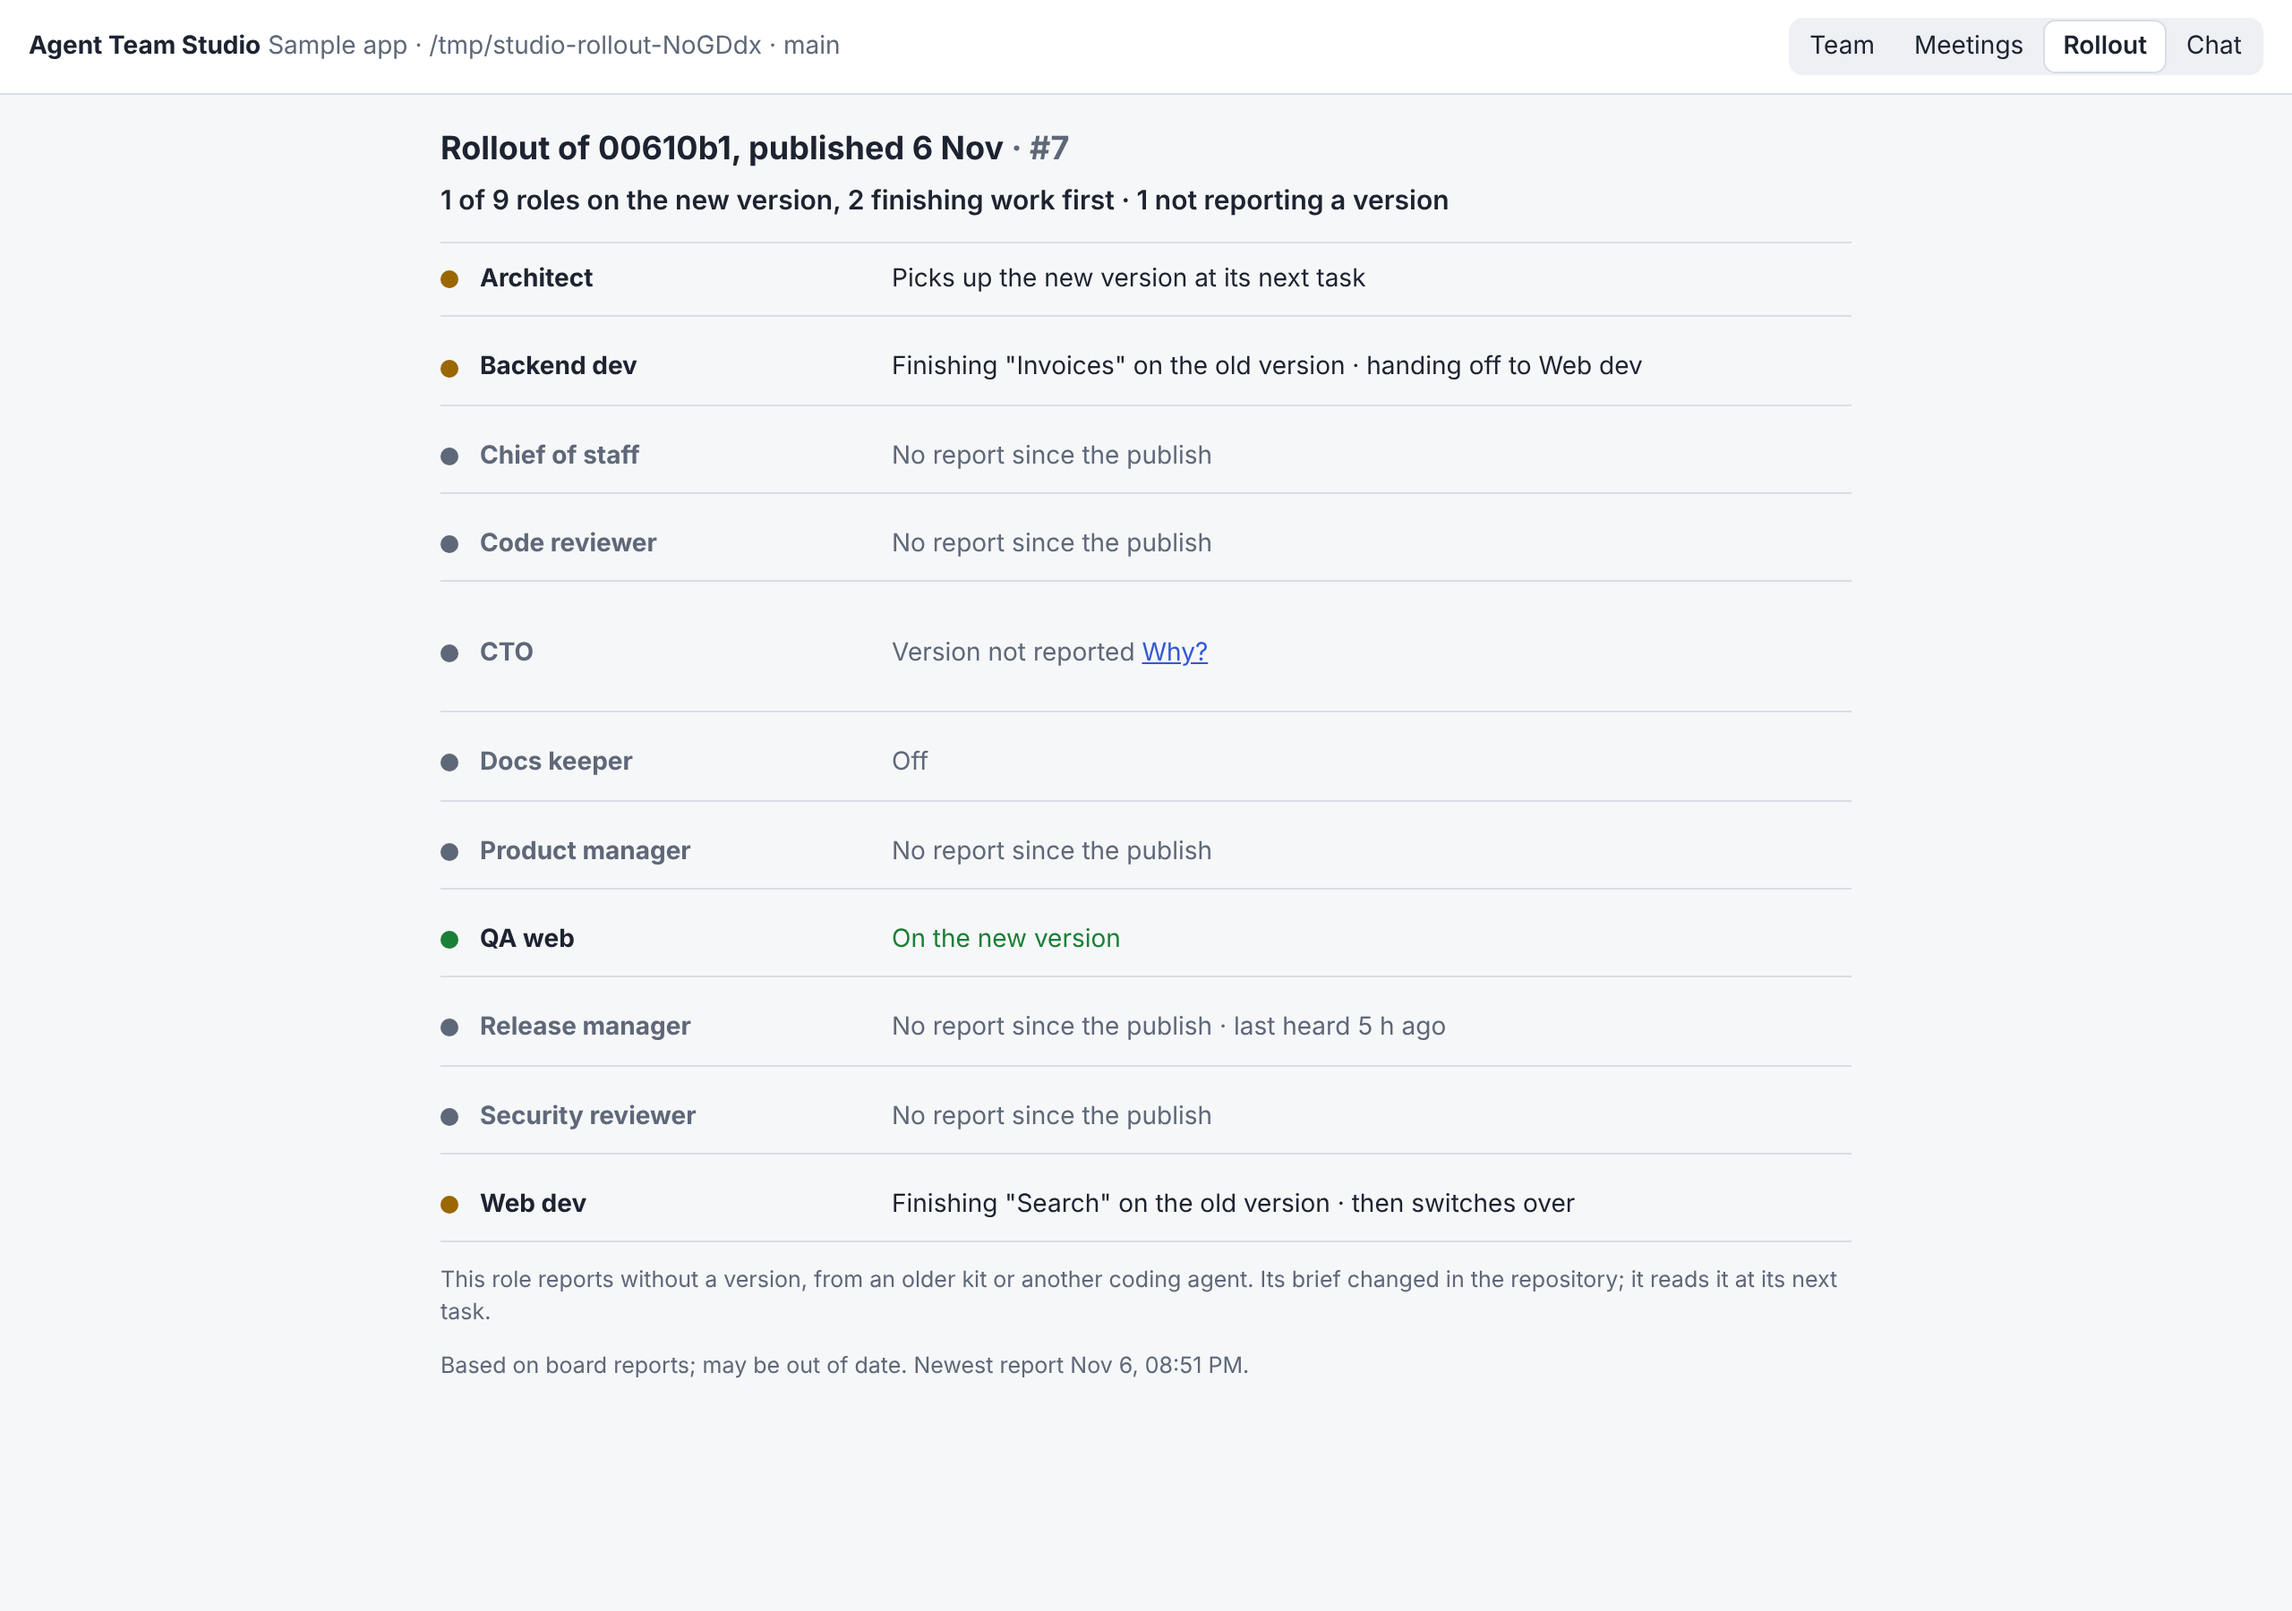
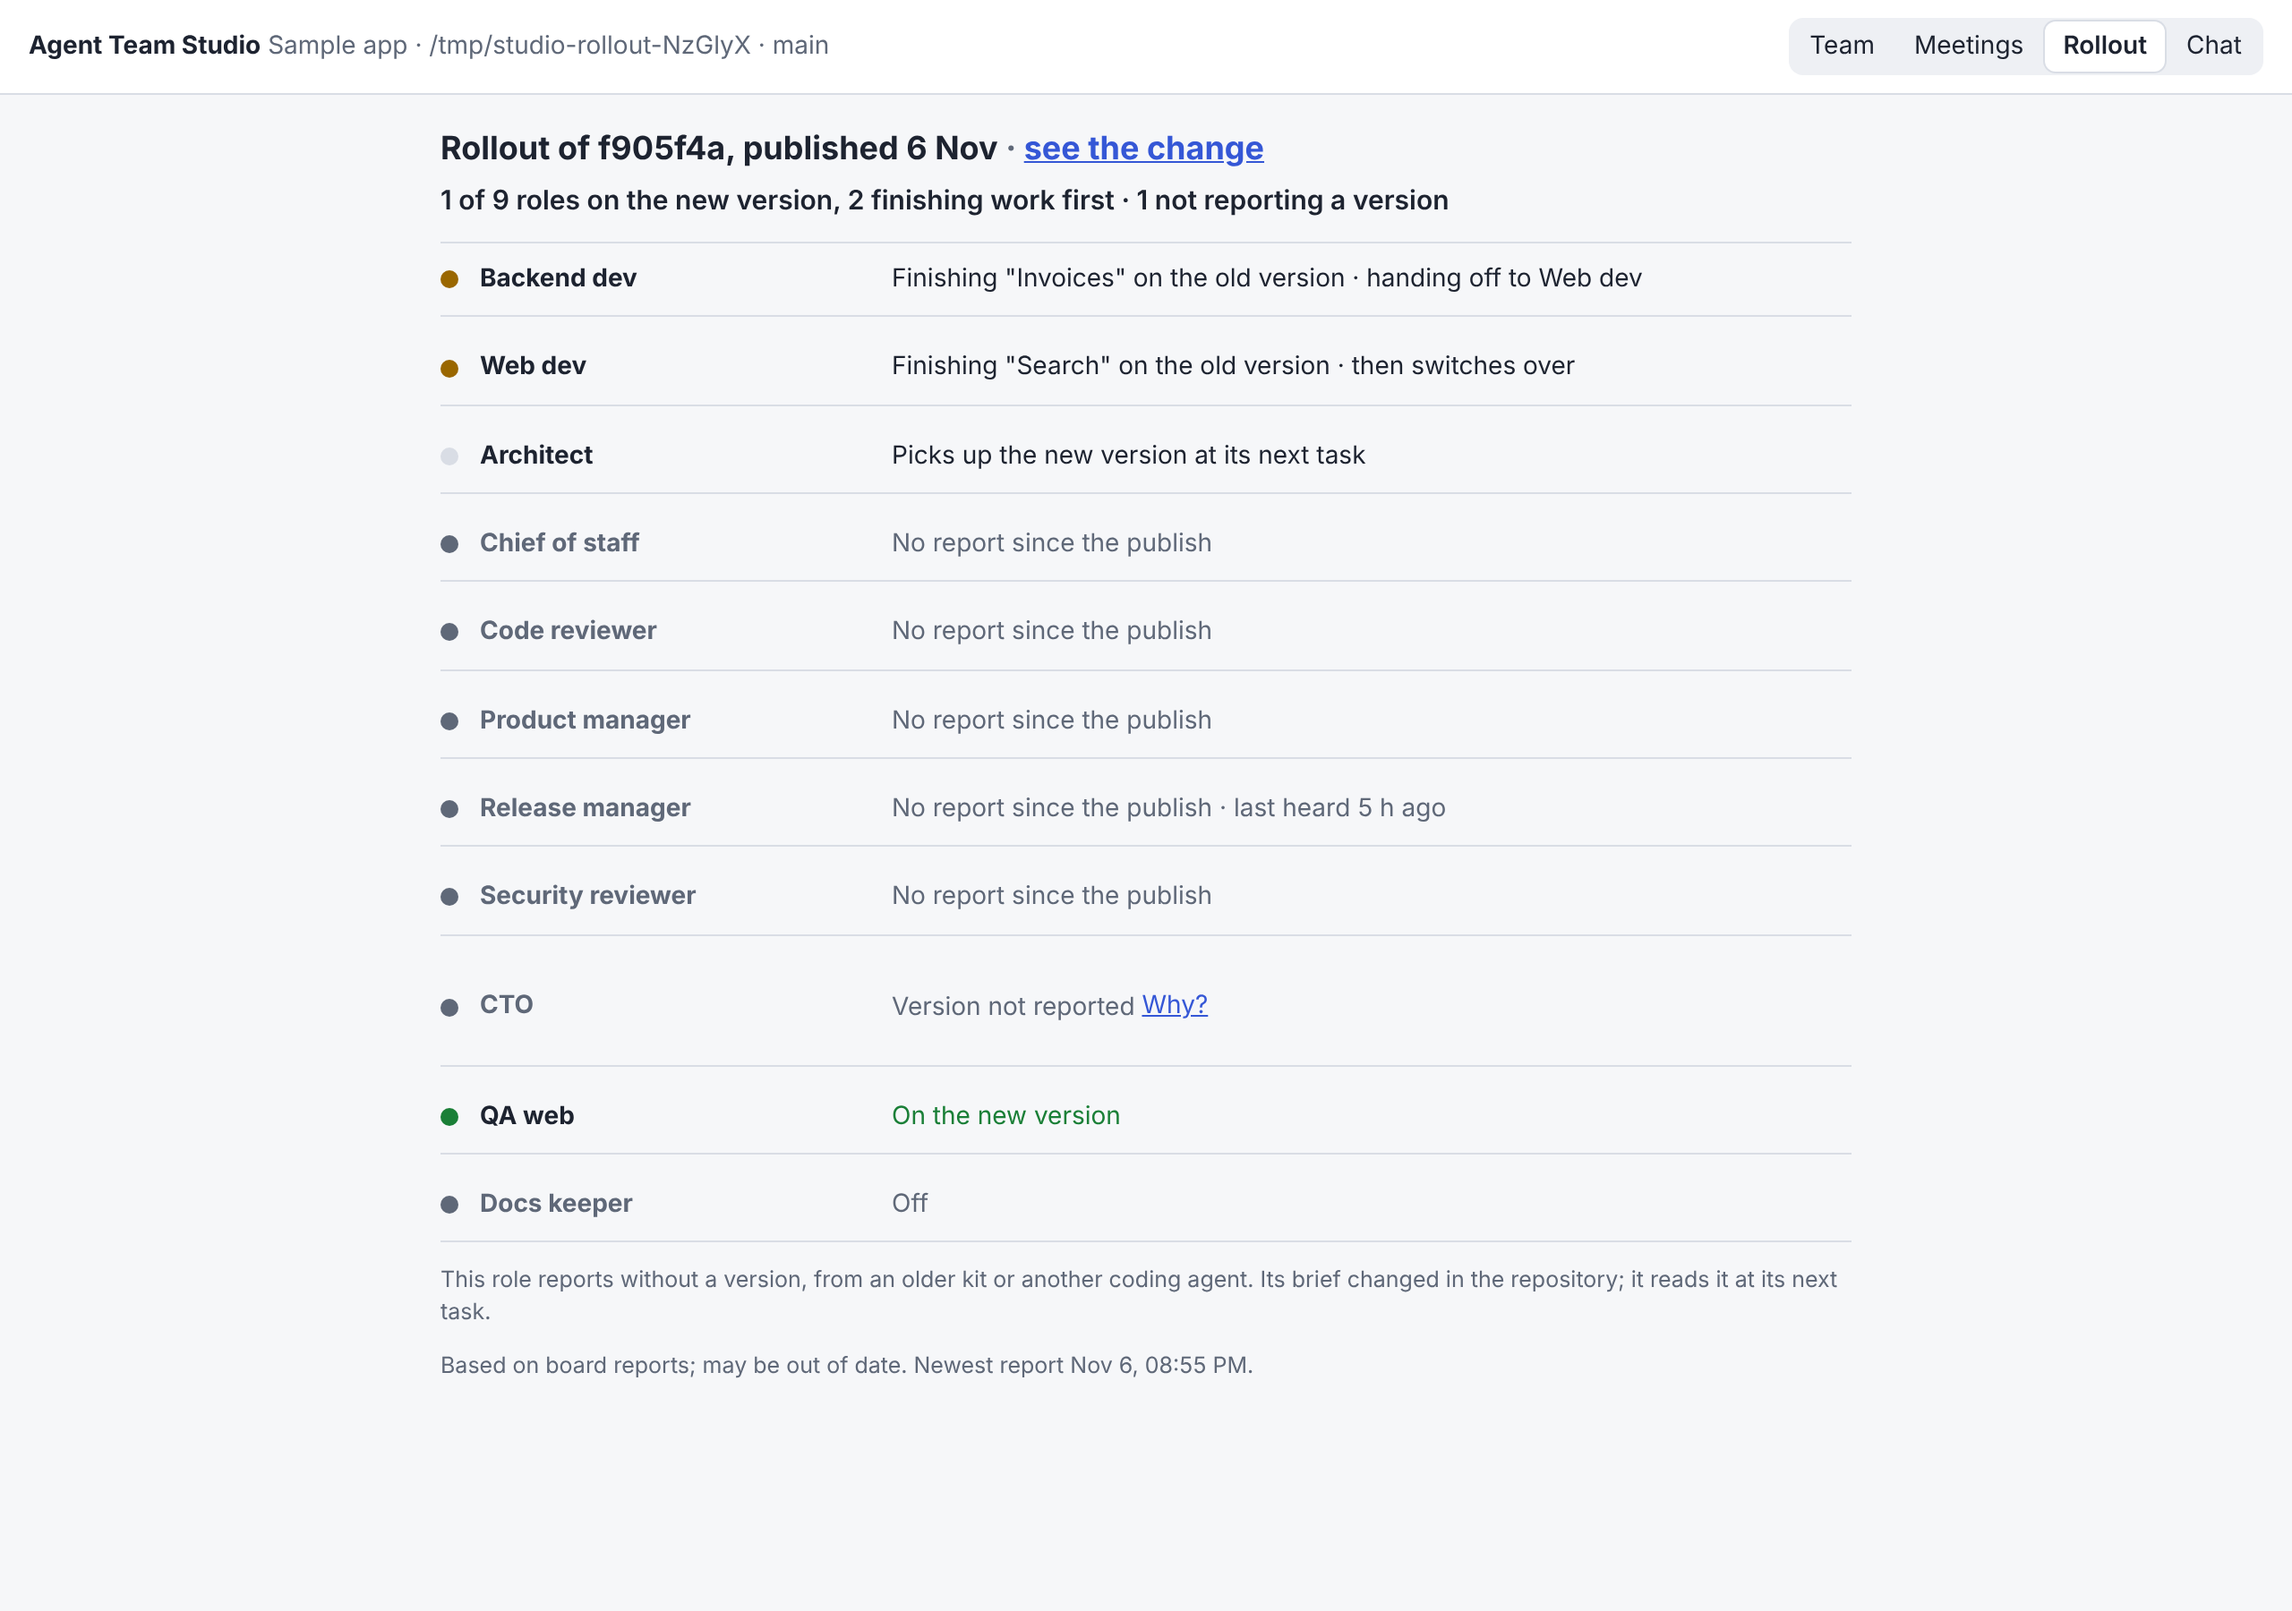
Rollout view: CPO changes and review notes
Sort roles by what needs a look, plain next-task, a 'see the change' link
to the pull request or commit (GitHub https only, no credentials). The
waiting notice says it is as of the last git fetch; pendingOf() reads the
pending state without building a whole rollout. A deep link straight to
#rollout no longer reads the team model before it exists (QA's flaky e2e).

Claude-Session: https://claude.ai/code/session_01CtT1rLNW9YJYwkYiXvhcVj

diff --git a/apps/studio/public/rollout.js b/apps/studio/public/rollout.js
@@ -36,7 +36,7 @@ export function stateLine(r, { titleOf = human, now = Date.now() } = {}) {
   const heard = age !== null && age > QUIET_S ? ` · last heard ${ago(age)} ago` : '';
   switch (r.state) {
     case 'moved': return { text: `On the new version${heard}`, tone: heard ? 'grey' : 'ok' };
-    case 'next-task': return { text: `Picks up the new version at its next task${heard}`, tone: heard ? 'grey' : 'warn' };
+    case 'next-task': return { text: `Picks up the new version at its next task${heard}`, tone: heard ? 'grey' : 'plain' };
     case 'finishing': return { text: `Finishing ${task} on the old version · ${choiceWords(r.plan, titleOf)}${heard}`, tone: heard ? 'grey' : 'warn' };
     case 'off-finishing': return { text: `Switched off · finishing ${task} first${heard}`, tone: heard ? 'grey' : 'warn' };
     case 'off': return { text: 'Off', tone: 'grey' };
@@ -56,14 +56,21 @@ export function summaryLine(s) {
 
 const fmtTime = (iso) => { const d = new Date(iso ?? ''); return Number.isNaN(+d) ? '' : d.toLocaleString([], { day: 'numeric', month: 'short', hour: '2-digit', minute: '2-digit' }); };
 
-/** The whole view from GET /v1/team/rollout, as markup. */
+/** What needs a look first (CPO): mid-task, idle, no report, unknown, on the new version, off; by title inside each. */
+const ORDER = ['finishing', 'off-finishing', 'next-task', 'no-report', 'unknown', 'moved', 'off'];
+export function sortRoles(roles, titleOf = human) {
+  const rank = (r) => { const i = ORDER.indexOf(r.state); return i < 0 ? ORDER.length : i; };
+  return [...(roles ?? [])].sort((a, b) => rank(a) - rank(b) || String(titleOf(a.role)).localeCompare(String(titleOf(b.role))));
+}
+
+/** The whole view from GET /v1/team/rollout, as markup. The change link's href is set by createRollout, through the DOM. */
 export function rolloutHtml(data, { titleOf = human, now = Date.now() } = {}) {
   if (!data) return '<p class="muted">Reading the rollout…</p>';
   if (data.error) return `<p class="result error" role="alert">${esc(data.error)}</p>`;
   const pending = data.pending
-    ? `<p class="notice" role="status">Waiting for the change to merge. Roles keep running ${esc(data.name ?? 'the version before it')} until it does.</p>` : '';
+    ? `<p class="notice" role="status">Waiting for the change to merge. Roles keep running ${esc(data.name ?? 'the version before it')} until it does. As of your last git fetch.</p>` : '';
   if (!data.version) return `<h2 class="flush ro-head">Rollout</h2>${pending || `<p class="muted">${esc(EMPTY)}</p>`}`;
-  const rows = (data.roles ?? []).map((r) => {
+  const rows = sortRoles(data.roles, titleOf).map((r) => {
     const line = stateLine(r, { titleOf, now });
     return `<li class="ro-row ro-${line.tone}" data-role="${esc(r.role)}">
       <span class="ro-dot" aria-hidden="true"></span>
@@ -72,7 +79,7 @@ export function rolloutHtml(data, { titleOf = human, now = Date.now() } = {}) {
     </li>`;
   }).join('');
   const newest = (data.roles ?? []).map((r) => r.lastAt).filter(Boolean).sort().at(-1);
-  return `<h2 class="flush ro-head">Rollout of ${esc(data.name)}${data.pr ? ` <span class="muted">· #${esc(data.pr)}</span>` : ''}</h2>
+  return `<h2 class="flush ro-head">Rollout of ${esc(data.name)}${data.changeUrl ? ' <span class="muted">· <a class="ro-change" target="_blank" rel="noopener noreferrer">see the change</a></span>' : ''}</h2>
     ${pending}
     <p class="ro-summary">${esc(summaryLine(data.summary))}</p>
     <ul class="plain ro-list">${rows}</ul>
@@ -83,7 +90,12 @@ export function rolloutHtml(data, { titleOf = human, now = Date.now() } = {}) {
 /** The Rollout page: loads when shown, and again whenever the board changes while it is open. */
 export function createRollout({ root, titleOf, apiUrl }) {
   let data = null, es = null, timer = null;
-  const draw = () => { root.innerHTML = rolloutHtml(data, { titleOf }); };
+  const draw = () => {
+    root.innerHTML = rolloutHtml(data, { titleOf });
+    // https only, set through the DOM, never written into markup.
+    const a = root.querySelector('.ro-change');
+    if (a) { try { const u = new URL(data.changeUrl); if (u.protocol === 'https:') a.href = u.href; else a.parentElement.remove(); } catch { a.parentElement.remove(); } }
+  };
   async function load() {
     try {
       const res = await requestJson('/v1/team/rollout');

diff --git a/apps/studio/public/app.js b/apps/studio/public/app.js
@@ -825,7 +825,8 @@ async function ours(work) {
 
 /** The roles on in the draft, for hand-off targets (criterion 10: never one that is off). */
 const onRoles = () => view.team.map((r) => ({ slug: r.slug, title: r.title }));
-const roleTitle = (slug) => view.bySlug.get(slug)?.title ?? slug;
+// A deep link straight to the Rollout page arrives before anything has rendered the team, so build it here if needed.
+const roleTitle = (slug) => (view ??= derive()).bySlug.get(slug)?.title ?? slug;
 /** The rollout page reads the board and the repository through the local Studio's server; an embedded Studio has neither yet. */
 const rolloutOn = () => !env.embedded && feature('live', S.features);
 const managerOfRole = (slug) => view.bySlug.get(slug)?.reportsTo ?? '';

diff --git a/apps/studio/public/app.css b/apps/studio/public/app.css
@@ -589,3 +589,4 @@
 .ats .ro-why { min-height: 44px; padding: 0 4px; }
 @media (max-width: 640px) { .ats .ro-row { grid-template-columns: 12px 1fr; } .ats .ro-state { grid-column: 2; } }
 .ats .ro-head { text-transform: none; letter-spacing: 0; font-size: 18px; color: var(--ink); }
+.ats .ro-plain .ro-dot { background: var(--line); }

diff --git a/CHANGELOG.md b/CHANGELOG.md
@@ -2,7 +2,7 @@
 
 ## Unreleased
 
-- **Studio: the Rollout page** (kit #120, PRD 6.9 X7, demo step 17, CPO copy "Rollout view after a publish", D61 to D63). It answers "has the team picked up what I published?" with one line per role, built from board reports since the publish merged. A role is "On the new version" only when a report after the merge names it. A mid-task role says "Finishing "{task}" on the old version" plus the choice made at publish (then switches over, handing off to {role}, paused). The other lines are "Picks up the new version at its next task", "Switched off · finishing … first", "Off", "No report since the publish" (with "last heard N h ago"), and a grey "Version not reported" with a Why? hint. Roles that report no version, and roles that are off, are left out of the "{n} of {m} roles on the new version" summary. Reports older than 2 hours are grey. The page is read-only. It also has an empty state, and "Waiting for the change to merge" when this checkout has a team commit the default branch doesn't have yet. When connected to a control plane, the data comes from `GET /v1/teams/{team}/rollout`. Locally it comes from the default branch's last `.agent-team/` commit (its plan read from the commit message) and the board, via the new `GET /v1/team/rollout`. It reloads when the board changes. The page is not shown in an embedded Studio yet.
+- **Studio: the Rollout page** (kit #120, PRD 6.9 X7, demo step 17, CPO copy "Rollout view after a publish", D61 to D63). It answers "has the team picked up what I published?" with one line per role, built from board reports since the publish merged. A role is "On the new version" only when a report after the merge names it. A mid-task role says "Finishing "{task}" on the old version" plus the choice made at publish (then switches over, handing off to {role}, paused). The other lines are "Picks up the new version at its next task", "Switched off · finishing … first", "Off", "No report since the publish" (with "last heard N h ago"), and a grey "Version not reported" with a Why? hint. Roles that report no version, and roles that are off, are left out of the "{n} of {m} roles on the new version" summary. Reports older than 2 hours are grey. The page is read-only. It also has an empty state, and "Waiting for the change to merge" when this checkout has a team commit the default branch doesn't have yet. When connected to a control plane, the data comes from `GET /v1/teams/{team}/rollout`. Locally it comes from the default branch's last `.agent-team/` commit (its plan read from the commit message) and the board, via the new `GET /v1/team/rollout`. Rows are sorted by what needs a look (mid-task first, then waiting for a next task, no report, version not reported, moved, off). A role waiting for its next task is plain, not amber. The heading links to the pull request or commit ("see the change", GitHub https only, credentials never carried over). The waiting notice says it is as of your last git fetch. It reloads when the board changes. The page is not shown in an embedded Studio yet.
 - **Studio chat: a resume refused for a spent budget says so in words** (QA sev-4, CPO copy). The server now marks both of those 409s (start and resume) with the problem type `budget-exhausted`. The chat shows "Today's budget is spent, so the run can't resume yet. Raise the cap for today to resume it now, or resume it after the budget resets at 00:00 UTC (in N h)." with a matching button. While today's budget card is open, the button says **Raise the cap for today** and points to that card, whose Add half again lifts today only and resumes with one step-up. Once the card is answered, it says **Raise the daily cap**, asks for a new cap above today's spend, steps up, and resumes. The start dialog says when the budget resets too. **Server:** a stepped-up raise of the daily cap above today's spend now opens today again: it clears the spent mark and any Resume tomorrow, so the resume after it goes through. Before this, the run stayed paused (QA #162 sev 2). The spent sentence goes away once the run is going again, and a cap that is too low, or not an amount, keeps the sentence and its button. The step-up dialog's Confirm waits while a check runs, so a double tap no longer gets a 429.
 - **The kit names no product in anything it ships** (`tests/handoffs-out.test.mjs`). `handoffs/`, the kit team's mailbox with products that use the kit, never ships in the package, init or sync output, and no product name the kit team has a mailbox with appears in a shipped file. A comment in the board's CSS lost the product it was ported from. **What existing teams see on sync:** that one comment line in `scripts/agent-team/dashboard/app.css`.
 
